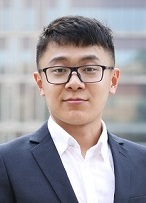
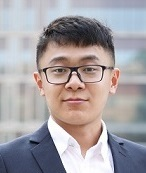
add

diff --git a/index.html b/index.html
@@ -47,7 +47,7 @@
       </header>
       <section>
       <h3>
-      <img src="shirui.jpg" height="203" width="146"></h3>
+      <img src="shirui.jpg" height="173" width="146"></h3>
       <p>I am currently a PhD student of <a href="http://www.graco.c.u-tokyo.ac.jp/yama-lab/member/">Yamaguchi Lab</a> of <a href="http://system.c.u-tokyo.ac.jp/index_e.html">Department of General Systems Studies</a> at <a href="https://www.u-tokyo.ac.jp/en/index.html">the University of Tokyo (UTokyo)</a>. I graduated with a Master in Control Theory from <a href="http://english.bjfu.edu.cn/">Beijing Forestry University</a> in July 2017.</p>
       <p>My research interests include Computer Vision, Image Processing, and Machine Learning.</p>
       </section>

diff --git a/index_cn.html b/index_cn.html
@@ -47,7 +47,7 @@
       </header>
       <section>
       <h3>
-      <img src="shirui.jpg" height="203" width="146"></h3>
+      <img src="shirui.jpg" height="173" width="146"></h3>
       <p>我目前是一名博士研究生，在<a href="http://system.c.u-tokyo.ac.jp/index_e.html">东京大学广域科学系</a>的<a href="http://www.graco.c.u-tokyo.ac.jp/yama-lab/member/">山口 泰</a>实验室攻读博士学位。我于2017年7月毕业于<a href="http://english.bjfu.edu.cn/">北京林业大学</a>工学院的张军国教授实验室.</p>
       <p>我的研究领域包括计算机视觉，图像处理和机器学习等。</p>
       </section>
